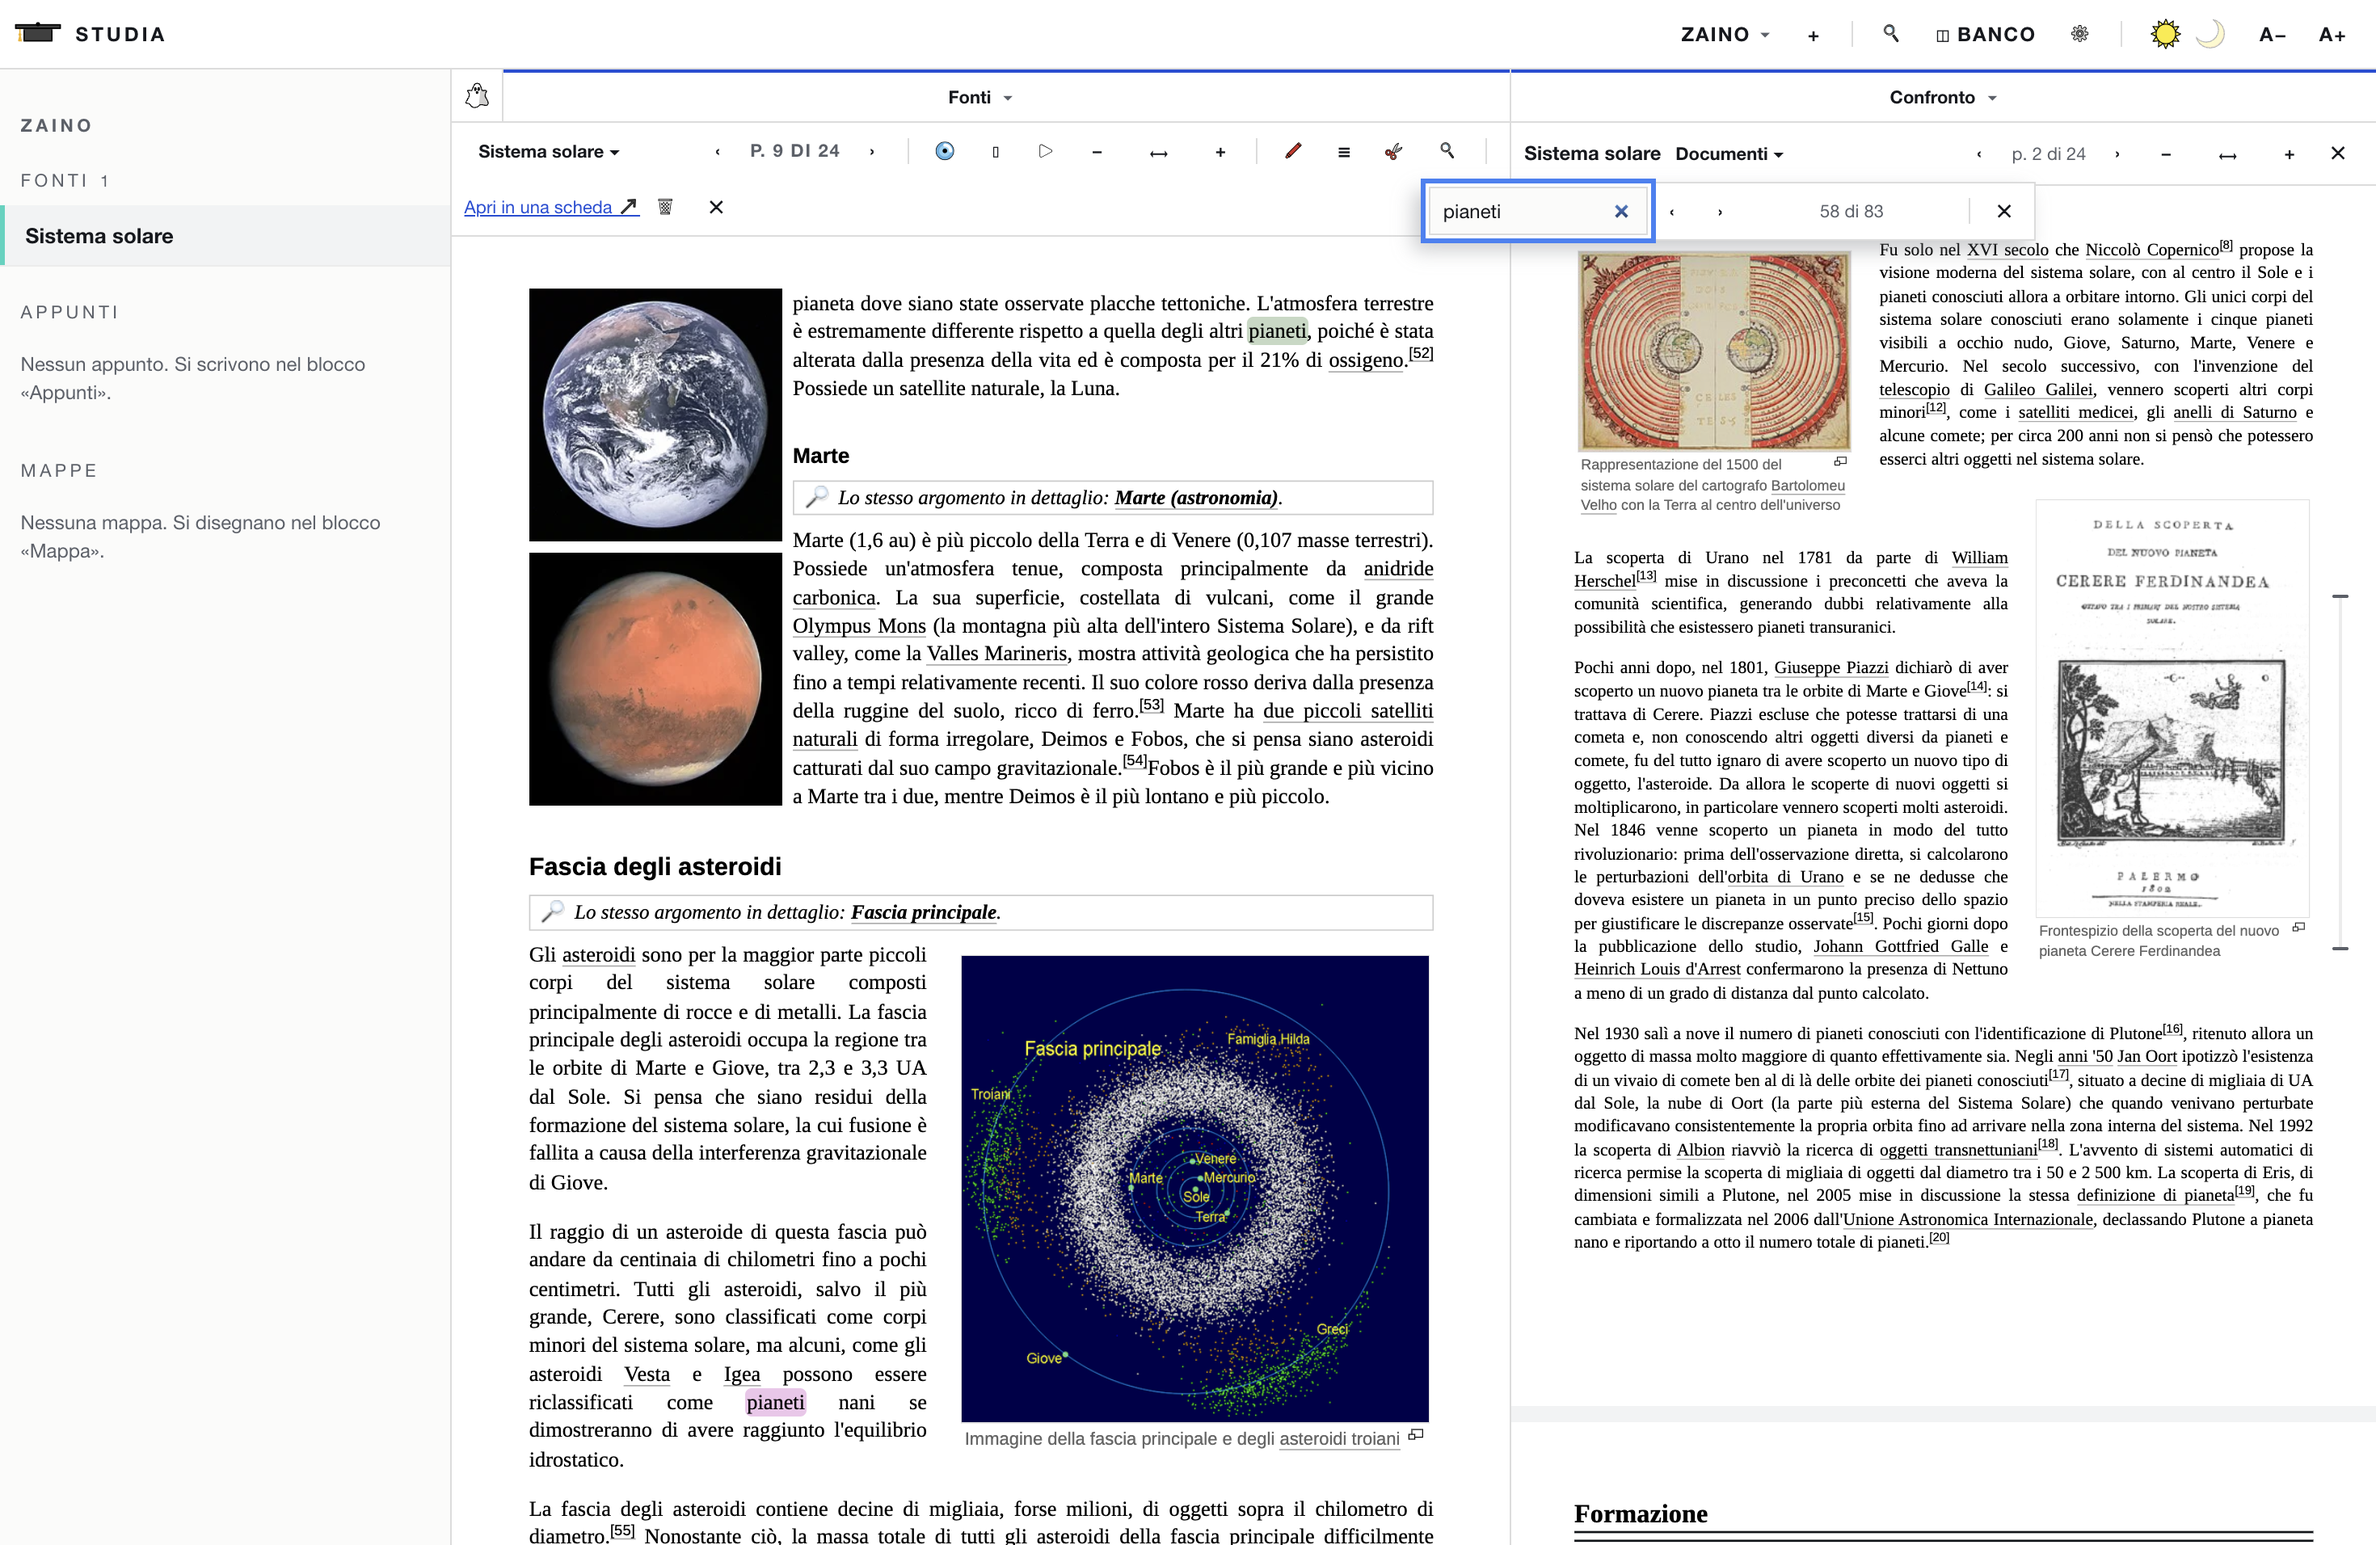
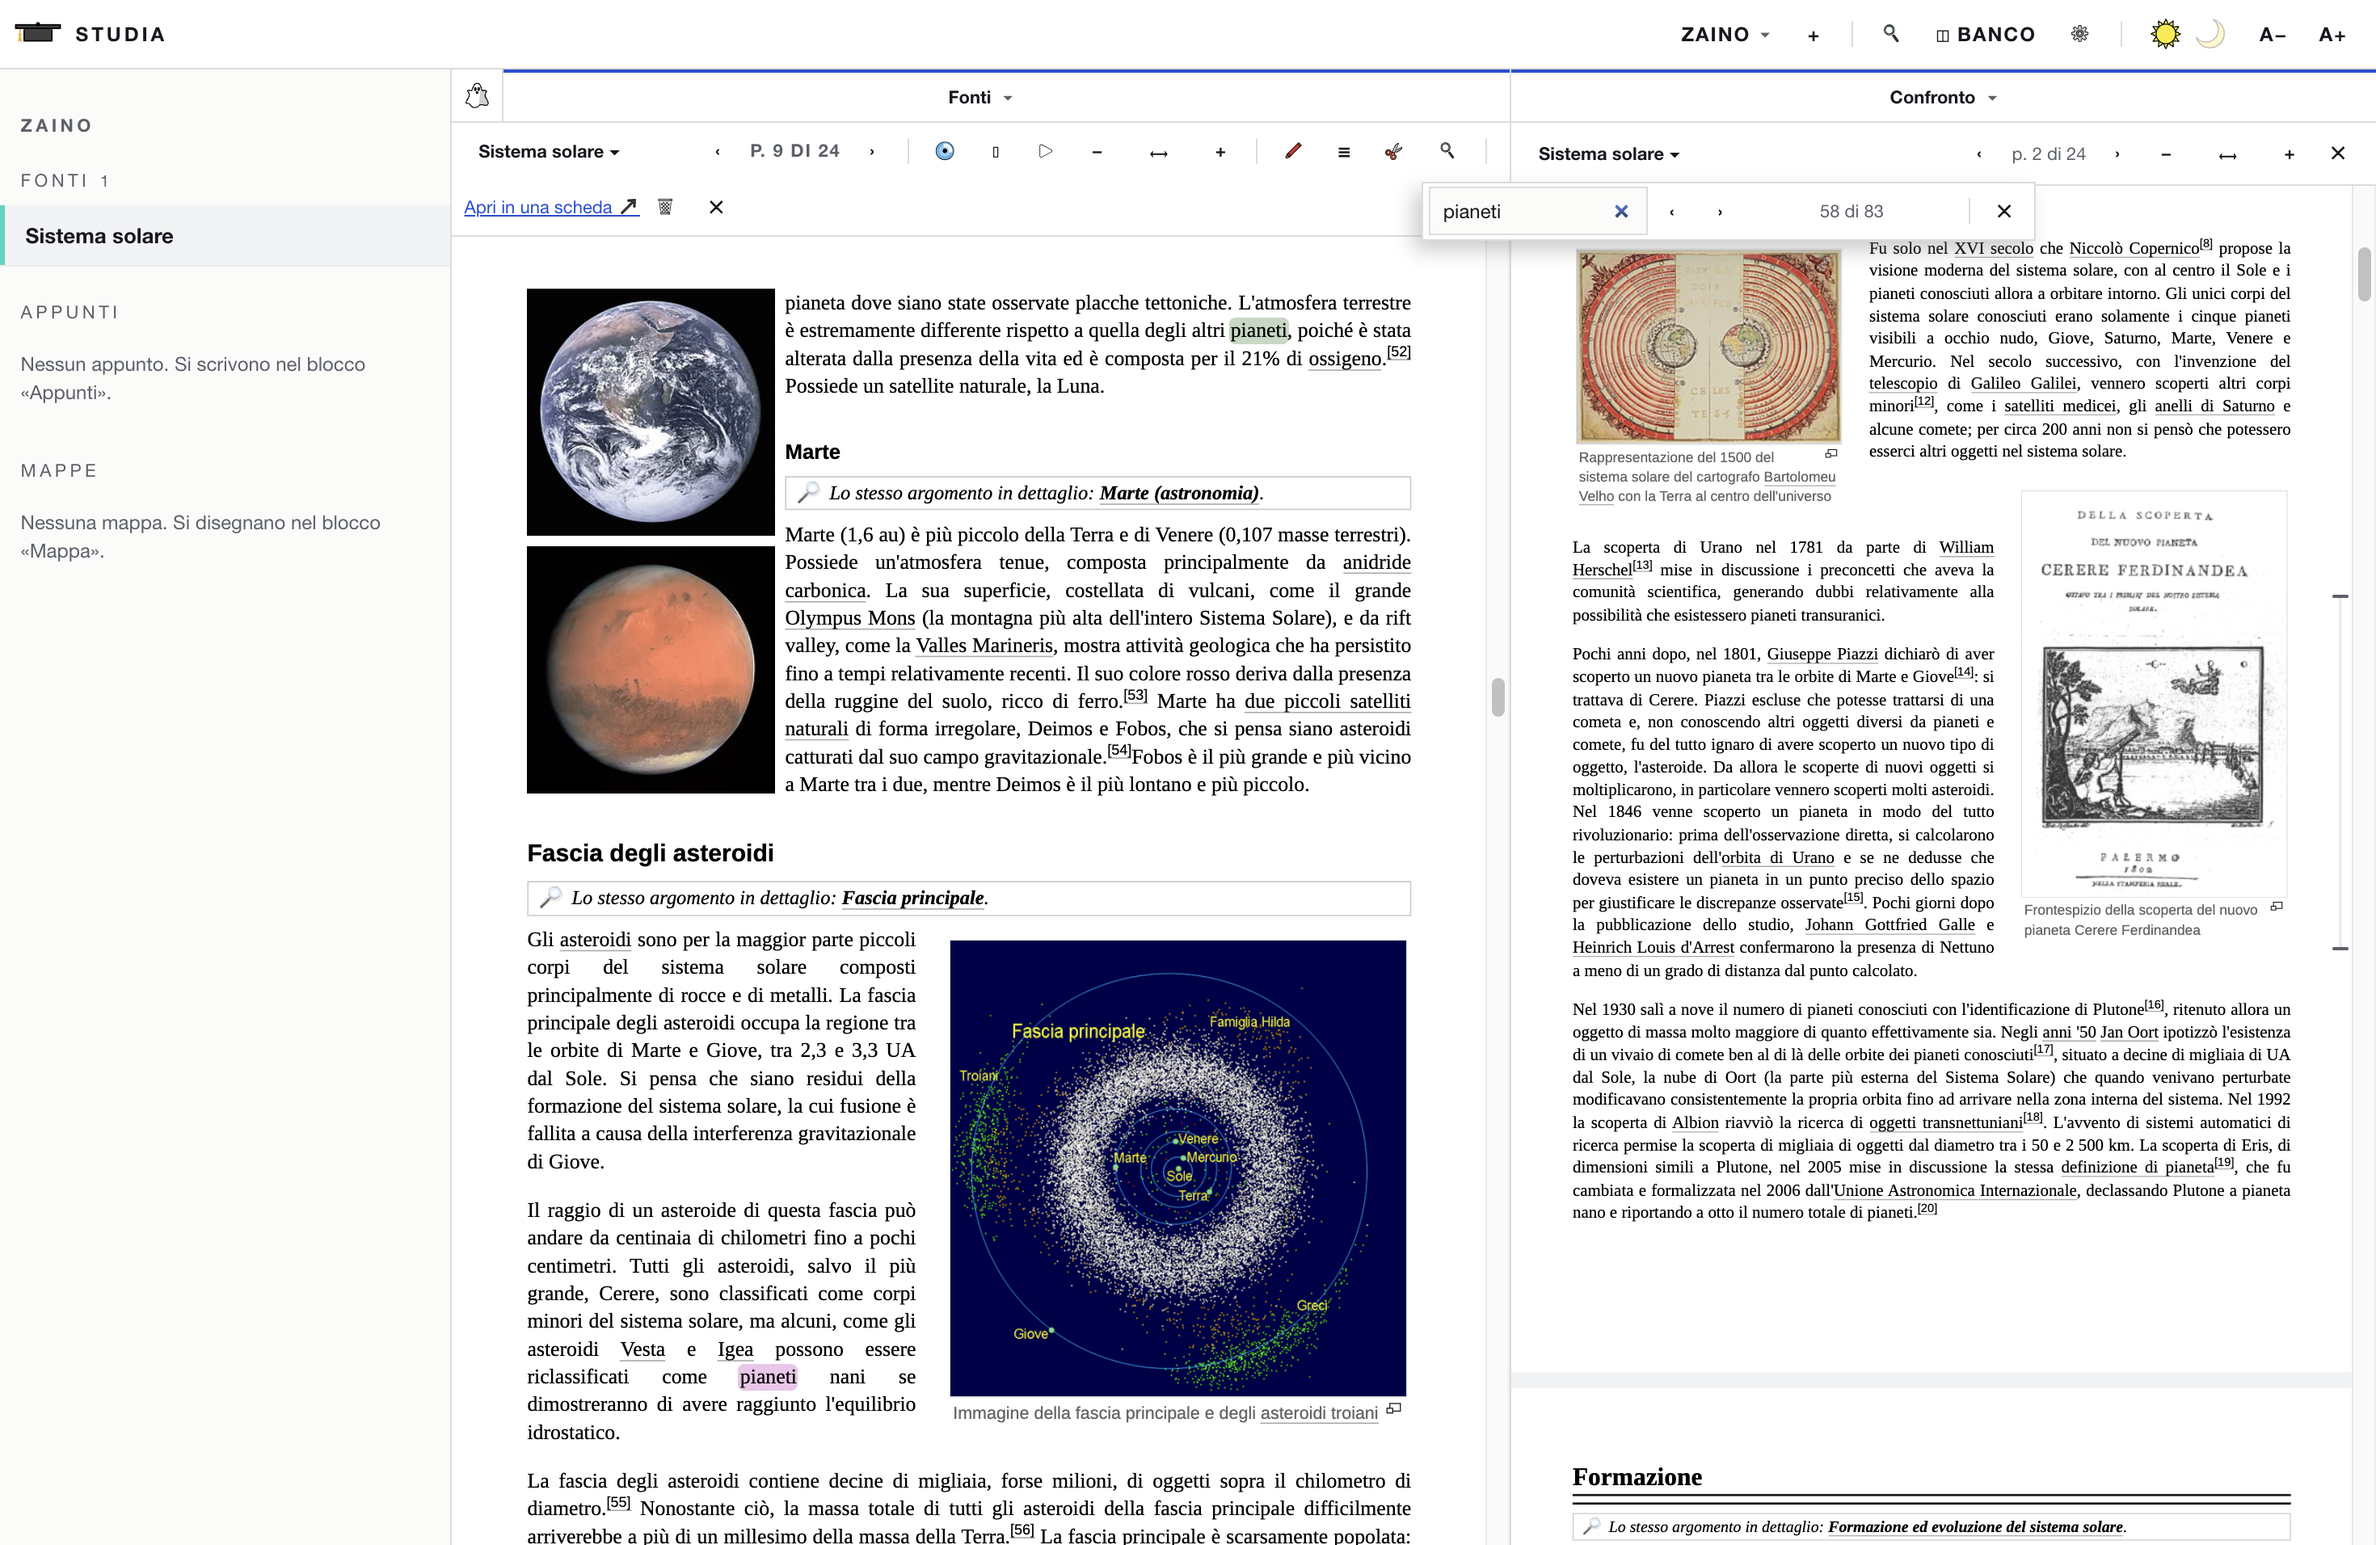
guida: la figura del Confronto, e la ricetta per rifarne UNA sola
La 24 mostrava la barra di prima, col titolo. Rifare campagna.js avrebbe
riscritto tutte e 117 le immagini: un commit di soli PNG rigenerati, dove
l'unica davvero cambiata si perde.

scatto-24.js ricostruisce a mano lo stato che il passo 24 EREDITA dai passi
21-23 — pagina 9, la ricerca «pianeti» aperta, lo zoom alla larghezza — e
riscatta quella sola figura. ⚠ È anche la sua fragilità: chi tocca i passi
21-23 deve toccare anche questo file, e sta scritto in testa allo script e nel
README del laboratorio.

Nel testo di §Confronto il selettore ora promette quello che fa davvero: a
documento aperto porta scritto il titolo, come quello della Fonte.

Changed region(s): [[0.2167, 0.1543, 1.0, 1.0], [0.65, 0.9566, 0.9905, 1.0], [0.619, 0.0926, 0.7429, 0.1234]]

diff --git a/App/guida-zaino/_lab/scatto-24.js b/App/guida-zaino/_lab/scatto-24.js
@@ -1,0 +1,67 @@
+/* Rifà UNA sola figura della campagna: `24-confronto`.
+ *
+ * ⚠ Perché non si rilancia `campagna.js`. I 43 passi riscrivono tutte e 117 le
+ * immagini: un diff di soli PNG rifatti, dove l'unica che è davvero cambiata si
+ * perde. Qui si ricostruisce a mano lo STATO che il passo 24 trova — ed è la
+ * parte delicata, perché quello stato è eredità dei passi che lo precedono: la
+ * pagina 9 viene dal 21, la ricerca «pianeti» aperta viene dal 22 (si vede nella
+ * figura), lo zoom adattato alla larghezza dal 23. Chi tocca quei passi tocca
+ * anche questo file.
+ *
+ *   GUIDA_VAULT=<vault di prova> node scatto-24.js
+ */
+const L = require('./lab.js');
+const fs = require('fs');
+const path = require('path');
+const M = path.join(__dirname, 'materiali') + path.sep;
+const VAULT = process.env.GUIDA_VAULT;
+if (!VAULT) { console.error('Serve GUIDA_VAULT=<cartella del vault di prova>'); process.exit(1); }
+const W = 1470, H = 956;
+
+(async () => {
+  await L.collega();
+  fs.rmSync(VAULT + '/Zaini', { recursive: true, force: true });
+  await L.val(`localStorage.clear(); 1`);
+  await L.invia('Page.navigate', { url: 'file://' + path.join(__dirname, '..', '..', 'StudIA.html') });
+  await L.pausa(3000);
+  await L.collega();
+  await L.invia('Emulation.setDeviceMetricsOverride', { width: W, height: H, deviceScaleFactor: 2, mobile: false });
+  await L.pausa(700);
+  console.log(await L.val(`({modo: document.documentElement.dataset.modo, w: innerWidth, h: innerHeight})`));
+
+  console.log('== lo zaino «Sistema solare»');
+  await L.clicca('button.brand'); await L.pausa(900);
+  await L.clicca('#zainoNuovo'); await L.pausa(500);
+  await L.clicca('#zainoNome'); await L.scrivi('Sistema solare'); await L.pausa(200);
+  await L.clicca('#zainoCrea');
+  await L.finoA(`zainoAttivo()==='sistema-solare' ? 1 : 0`, 8000); await L.pausa(700);
+
+  console.log('== il documento');
+  await L.rilascia([M + 'Sistema solare.pdf']); await L.pausa(1300);
+  await L.finoA(`(()=>{const p=document.querySelector('#pdfPane .textLayer span'); return p?1:0})()`, 15000);
+  await L.pausa(1200);
+  await L.pulito(); await L.pausa(3600);   // l'avviso verde se ne va da solo
+
+  console.log('== il banco come lo lascia il passo 40+45');
+  await L.val(`bancoForma('quattro')`); await L.pausa(900);
+  await L.val(`bancoAssegna('D','')`); await L.pausa(500);
+  await L.val(`bancoAssegna('D','mappa'); bancoForma('due-col')`); await L.pausa(900);
+
+  console.log('== pagina 9 (21), ricerca «pianeti» (22), zoom (23)');
+  await L.val(`vaiAPagina(9)`); await L.pausa(1500);
+  await L.val(`letturaFlush && letturaFlush()`);
+  await L.pulito();
+  await L.clicca('#pdfFindBtn'); await L.pausa(300);
+  await L.clicca('#pdfFindInput'); await L.scrivi('pianeti'); await L.pausa(900);
+  await L.val(`pdfZoomAdatta()`); await L.pausa(700);
+  await L.val(`pdfZoomPasso(true)`); await L.pausa(700);
+  await L.val(`pdfZoomAdatta()`); await L.pausa(500);
+
+  console.log('== 24 confronto');
+  await L.val(`bancoAssegna('C','fonte2')`); await L.pausa(700);
+  await L.val(`fonte2Apri('01 Sistema solare.pdf')`); await L.pausa(2500);
+  await L.val(`fonte2Pagina && fonte2Pagina(true)`); await L.pausa(800);
+  console.log('   barra: ' + await L.val(`document.querySelector('#pdfPane2 .pdfbar').textContent.trim()`));
+  await L.scatta('24-confronto');
+  process.exit(0);
+})();

diff --git a/App/guida-zaino/index.html b/App/guida-zaino/index.html
@@ -449,7 +449,7 @@
         </figure>
 
         <h3 id="str-confronto">Confronto — un secondo documento accanto</h3>
-        <p>«Confronto» è un secondo visualizzatore, per tenere due PDF affiancati (o due pagine dello stesso). Ha il suo selettore «Documenti ▾», le sue frecce e il suo zoom, indipendenti dalla Fonte. Ma è solo per <em>leggere e copiare</em>: lì dentro la selezione non apre nessuna barra, niente evidenze, niente ritagli. Il vuoto lo dice: <em>«Qui si legge e si copia: evidenze, ritagli e «appunta» stanno nella Fonte.»</em></p>
+        <p>«Confronto» è un secondo visualizzatore, per tenere due PDF affiancati (o due pagine dello stesso). Ha il suo selettore «Documenti ▾» — che a documento aperto porta scritto il titolo, come quello della Fonte —, le sue frecce e il suo zoom, indipendenti dalla Fonte. Ma è solo per <em>leggere e copiare</em>: lì dentro la selezione non apre nessuna barra, niente evidenze, niente ritagli. Il vuoto lo dice: <em>«Qui si legge e si copia: evidenze, ritagli e «appunta» stanno nella Fonte.»</em></p>
         <figure class="fig-intera">
           <img src="img/24-confronto.png" alt="Due documenti affiancati: la Fonte a sinistra e il Confronto a destra, a pagine diverse" loading="lazy">
           <figcaption><b>Fonte e Confronto.</b> Lo stesso documento a due pagine diverse; potrebbero essere due documenti.</figcaption>

diff --git a/App/guida-zaino/_lab/README.md b/App/guida-zaino/_lab/README.md
@@ -12,6 +12,10 @@ ricetta per rifare le immagini, e **non entra nel pacchetto** (`!App/guida-zaino
 - `campagna.js` — la sequenza completa, in ordine di guida: azzera il vault di prova, crea lo
   zaino «Sistema solare», importa i materiali e fotografa ogni stato. Finestra 1470×956 @2x =
   MacBook Air 13″ a schermo intero.
+- `scatto-24.js` — la ricetta per rifare **una sola** figura (`24-confronto`), quando cambia la
+  barra del Confronto: ricostruisce a mano lo stato che il passo 24 eredita dai passi 21-23
+  (pagina 9, ricerca «pianeti» aperta, zoom alla larghezza) invece di riscrivere tutte e 117 le
+  immagini. Stesso modo di lanciarlo della campagna: `GUIDA_VAULT=<vault> node scatto-24.js`.
 - `materiali/` — i sei file che la campagna importa (PDF, video, audio, foto, `.md`, «scheda
   fotografata» = PDF di sole immagini). Stanno qui e non in una cartella temporanea perché la
   campagna deve potersi rifare fra un anno.
